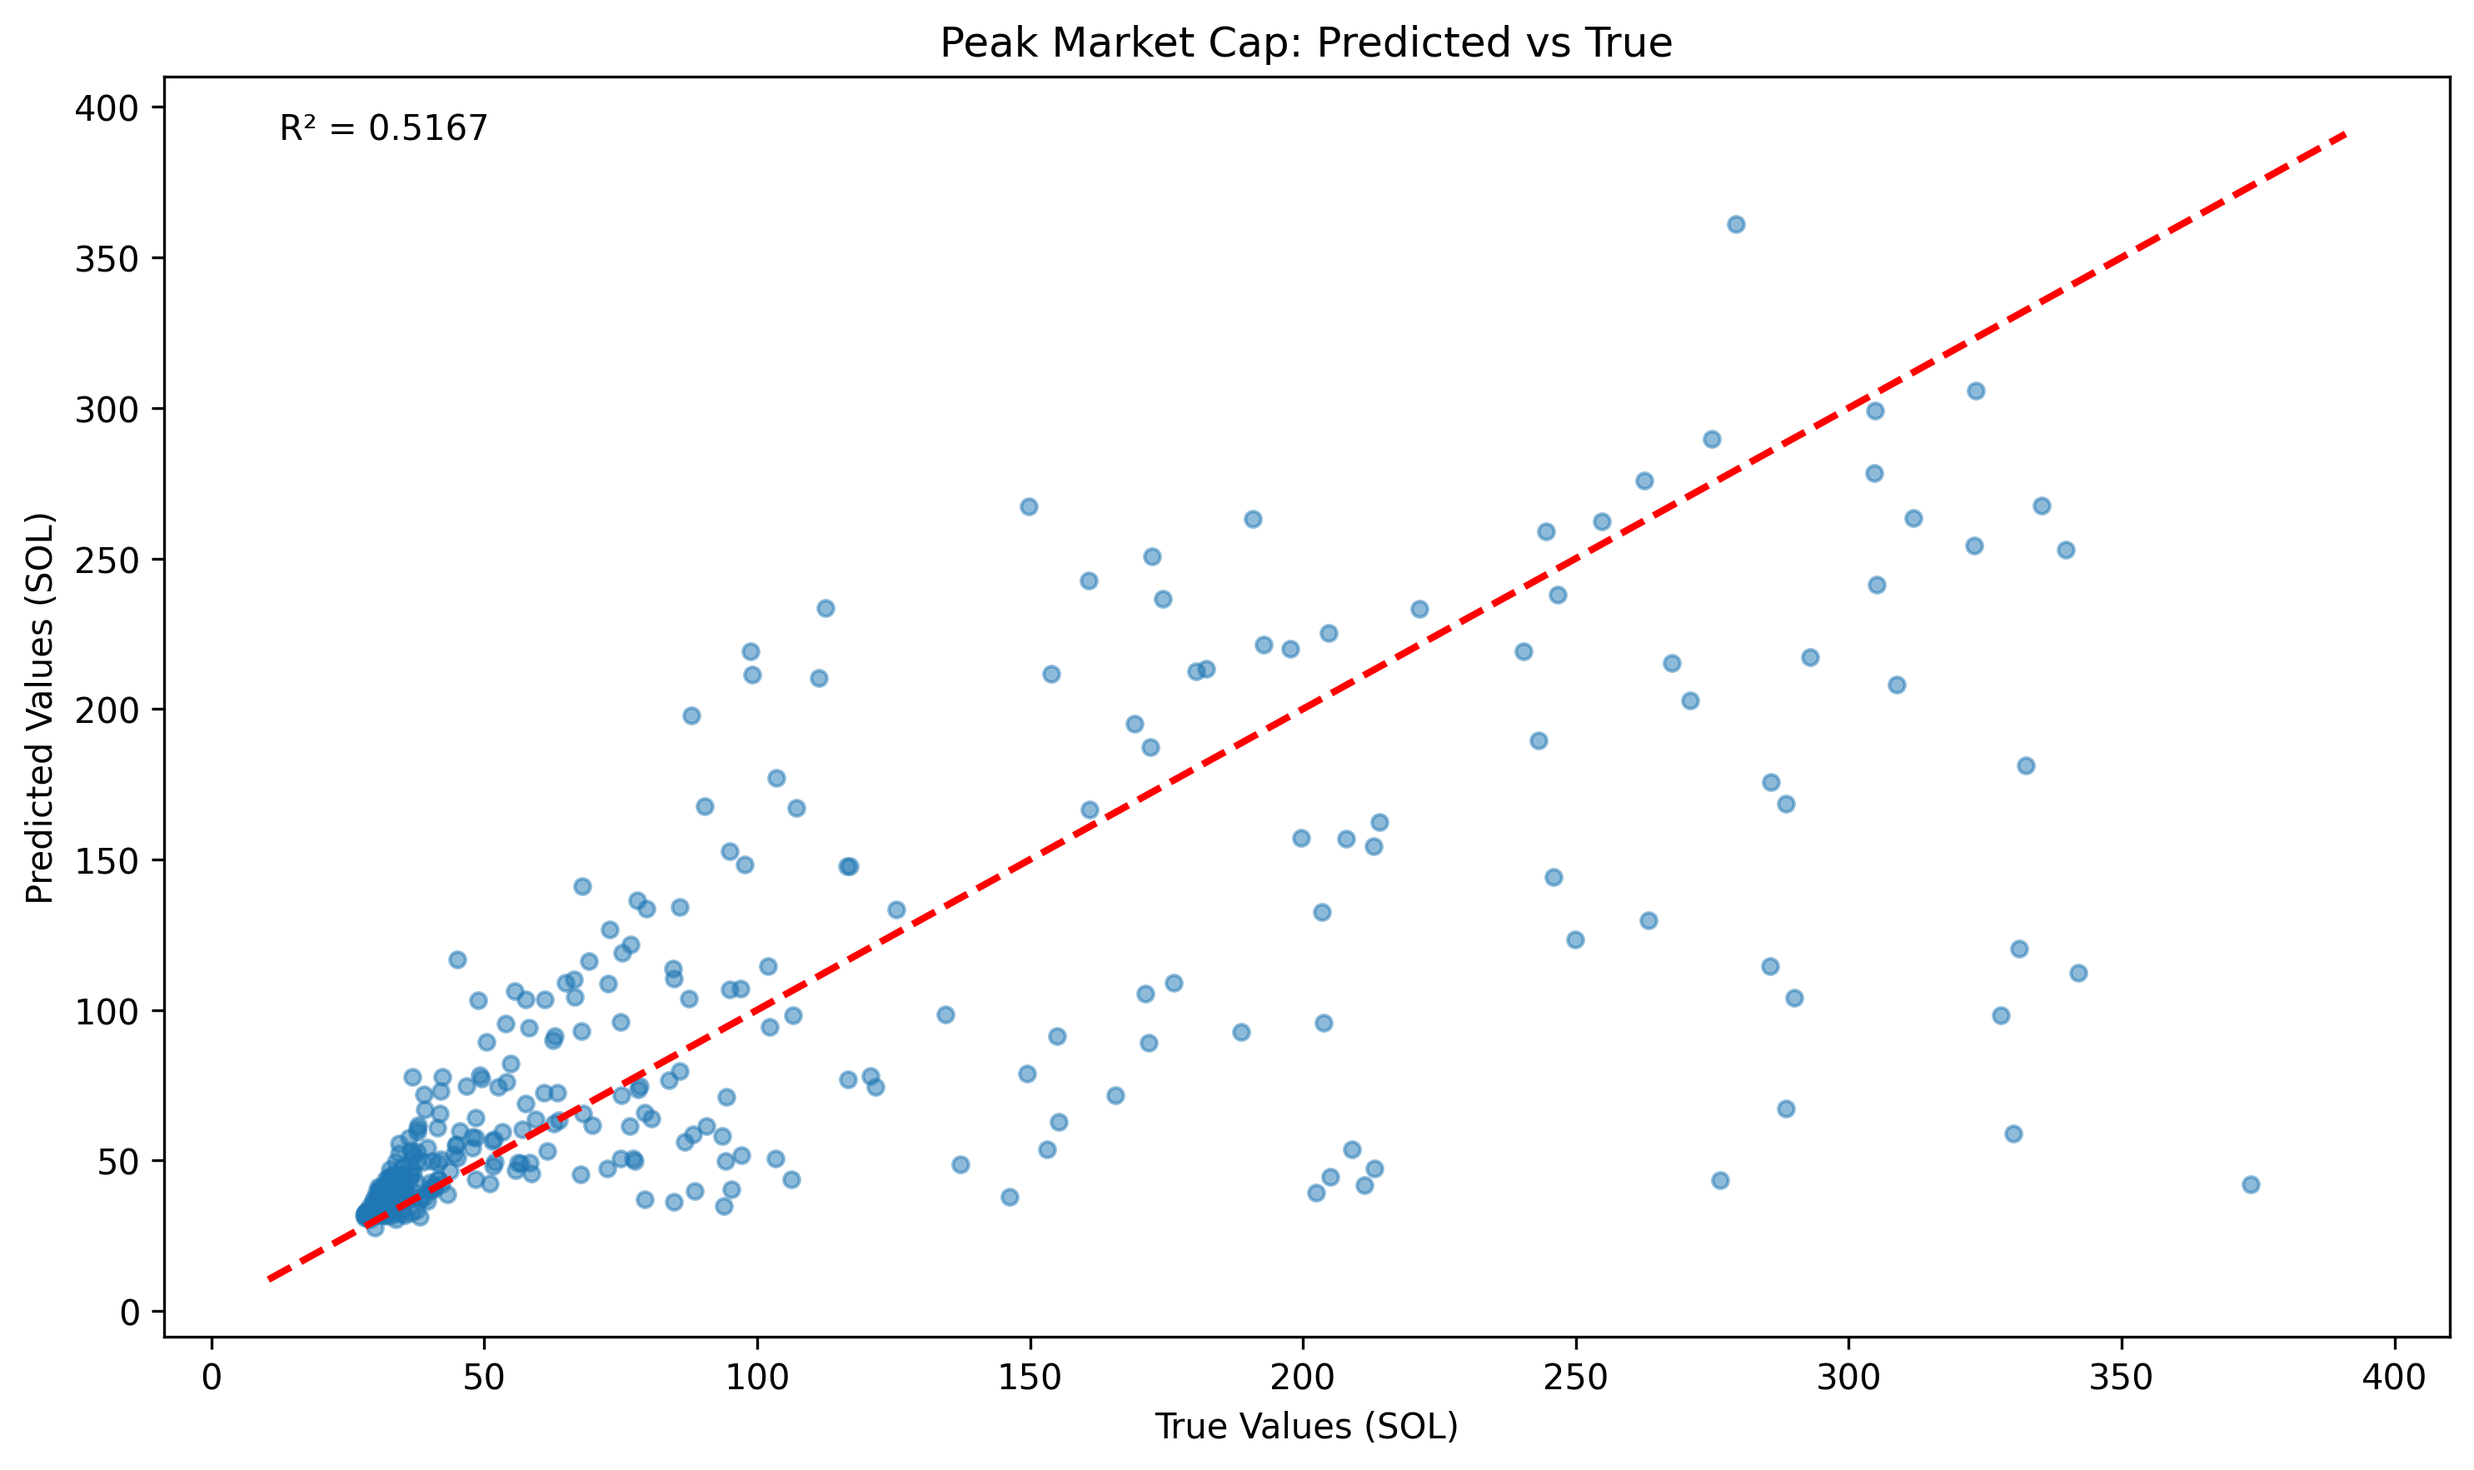
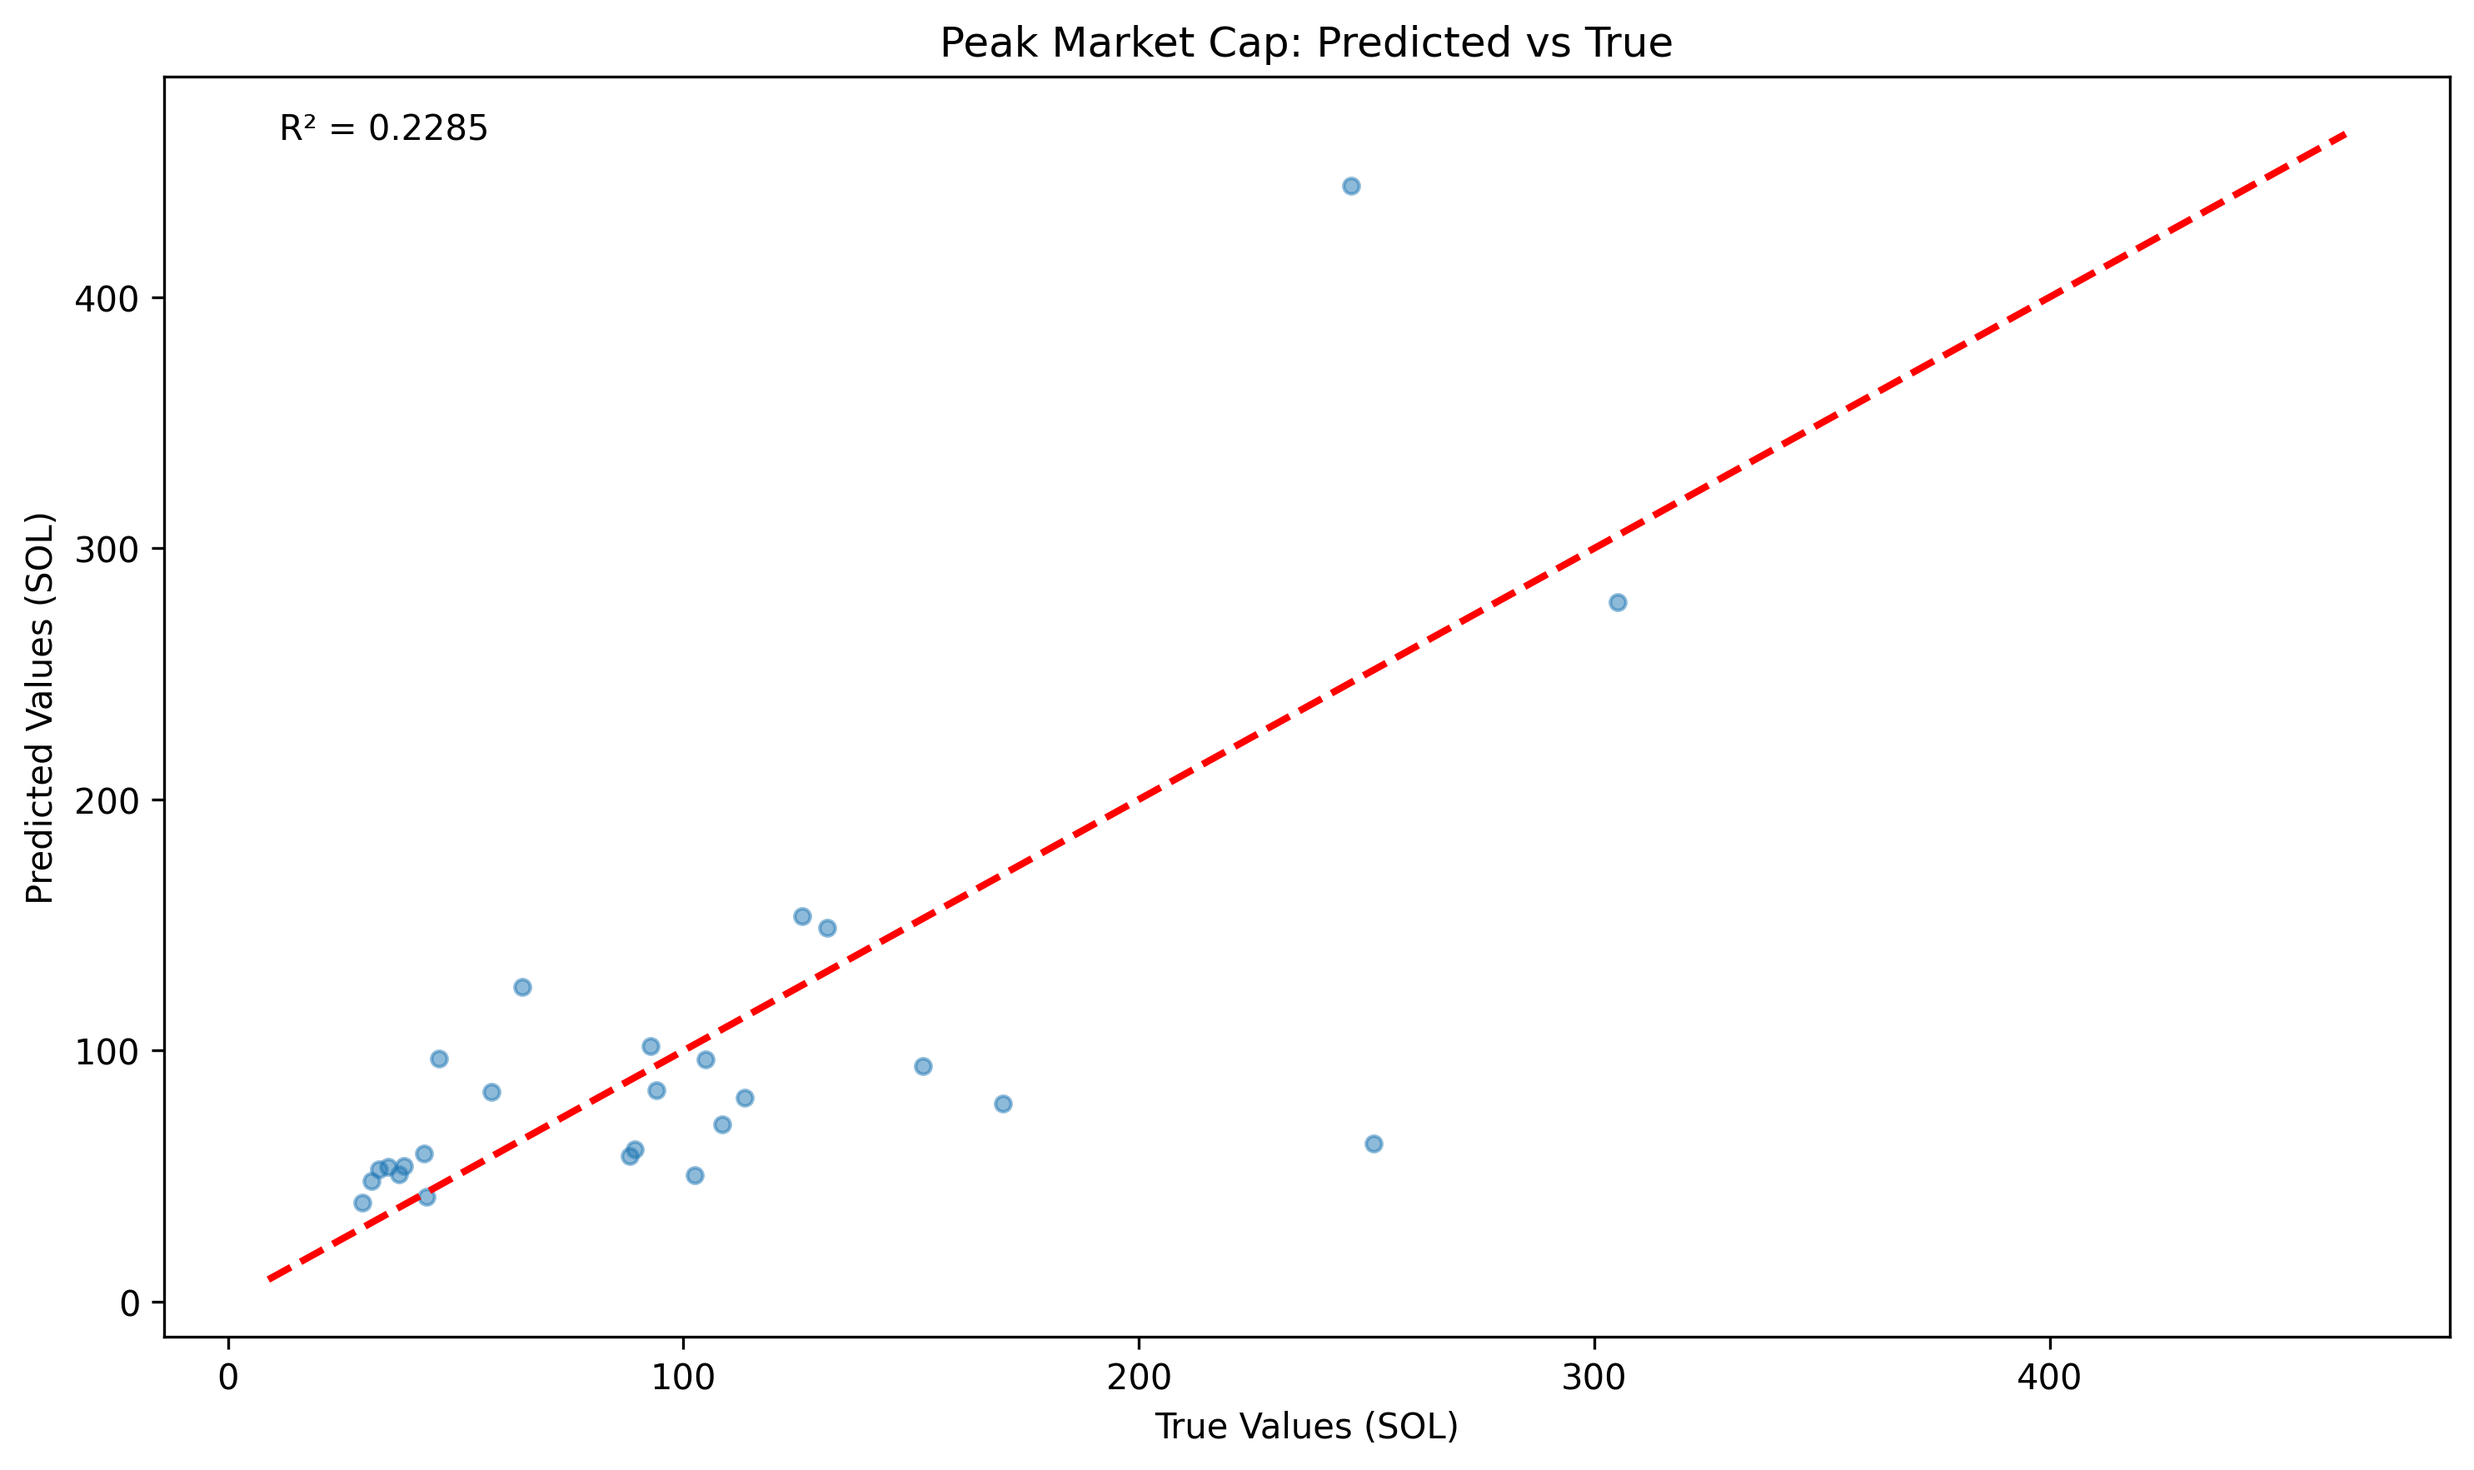
fix

diff --git a/NNbot/PeakMarketCap/models/peak_market_cap_model.py b/NNbot/PeakMarketCap/models/peak_market_cap_model.py
@@ -343,7 +343,7 @@ def main():
     # df_08 = pd.read_csv('data/token_data_2025-01-08.csv')
     # df_08 = clean_dataset(df_08)
     # df_08 = add_data_quality_features(df_08)
-    df = pd.read_csv('data/higher-peak-data.csv')
+    df = pd.read_csv('data/token-data.csv')
     df = clean_dataset(df)
     df = add_data_quality_features(df)
 

diff --git a/NNbot/PeakMarketCap/evaluate.py b/NNbot/PeakMarketCap/evaluate.py
@@ -169,5 +169,5 @@ def evaluate_peak_market_cap_model(peak_market_cap_model_path, data_paths):
 if __name__ == "__main__":
     evaluate_peak_market_cap_model(
          'best_peak_market_cap_model.pth',
-       ['data/higher-peak-data.csv']
+       ['data/token-data.csv']
     )
